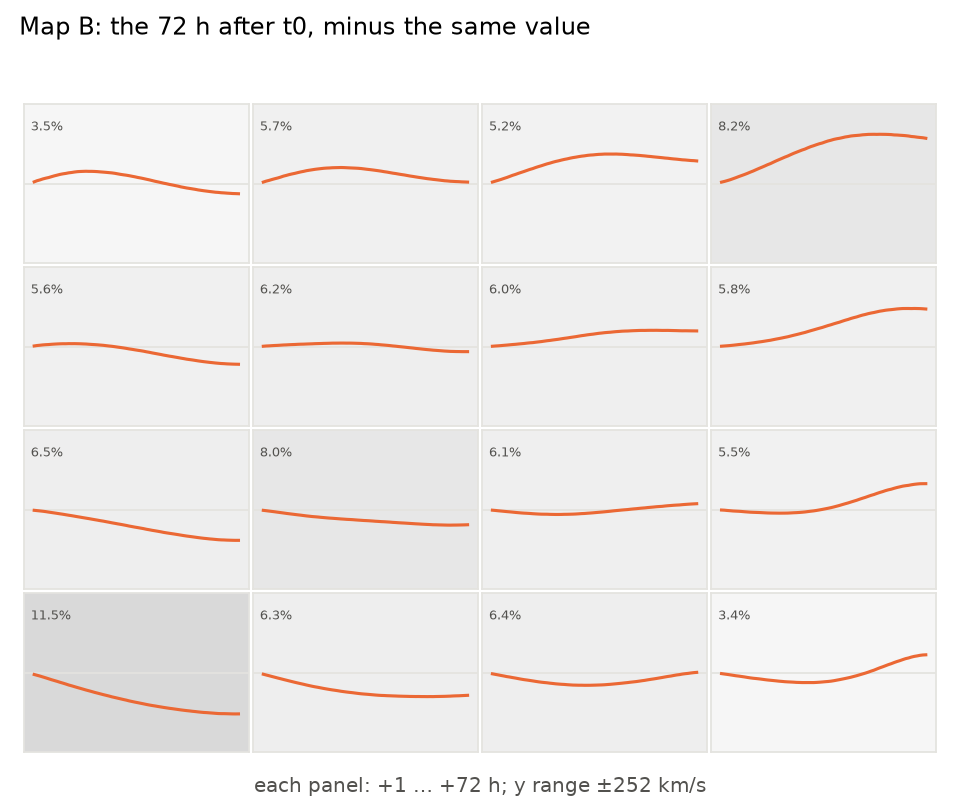
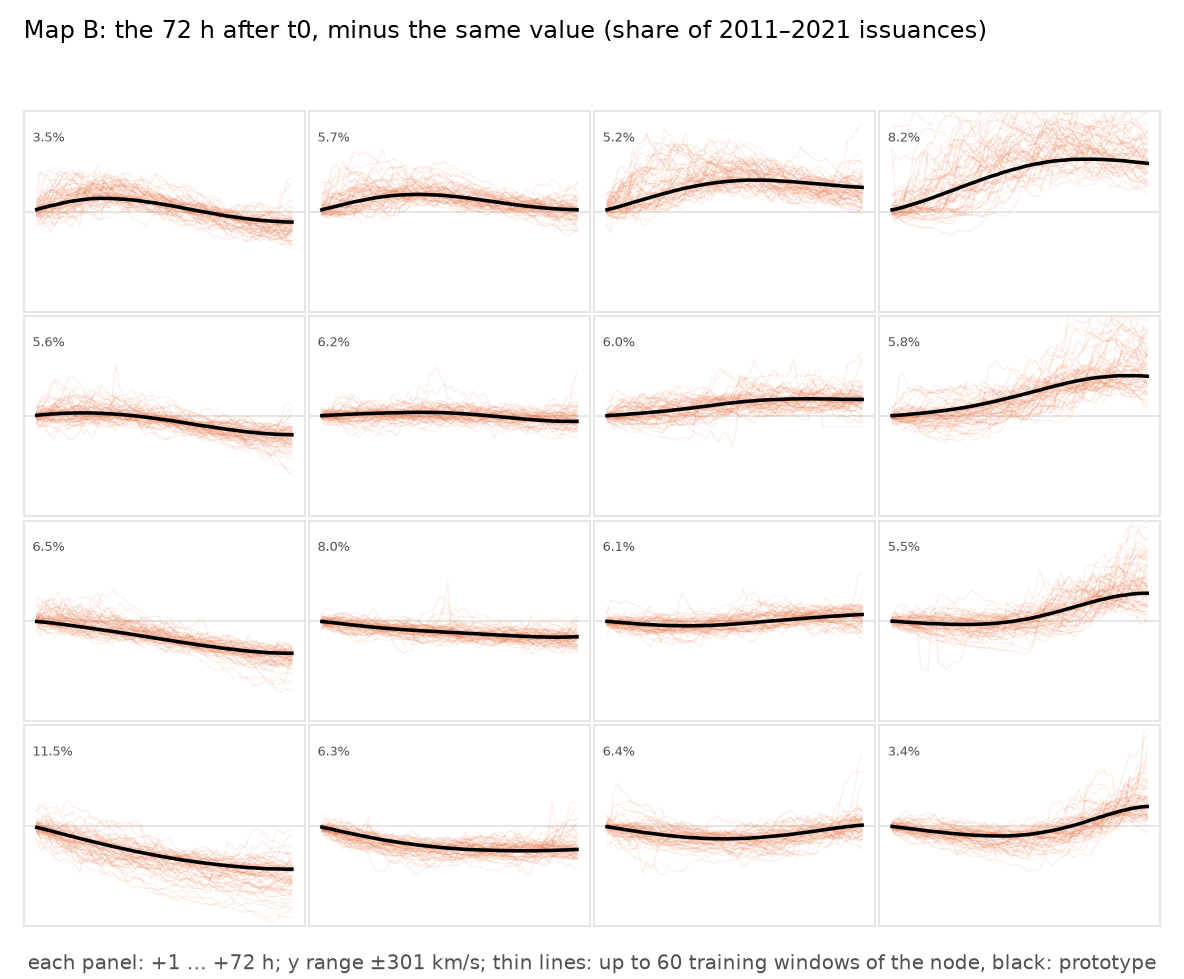
SOM maps: draw each node's training windows behind its prototype

diff --git a/scripts/plot_som.py b/scripts/plot_som.py
@@ -1,8 +1,9 @@
 #!/usr/bin/env python3
 """Figures of the two linked SOMs (benchlab_forecasting.som), in English.
 
-  som_past_map      prototypes of map A: the 72 h before the cut-off, relative to the last value;
-  som_future_map    prototypes of map B: the 72 h after t0, relative to the same value;
+  som_past_map      prototypes of map A: the 72 h before the cut-off, relative to the last value,
+                    over the training windows that fall in each node (thin translucent lines);
+  som_future_map    prototypes of map B: the 72 h after t0, relative to the same value, likewise;
   som_link          P(future node | past node) for four past regimes;
   som_case          one test issuance with a large rise: observed, model and SOM post-processing.
 
@@ -23,22 +24,59 @@ import pandas as pd
 MUTED, GRID = "#52514e", "#e4e3df"
 
 
-def grid_plot(prototypes, grid, counts, title, color, ylim, xlabel):
+def training_members(report, maps):
+    """Training windows of both maps and the node each one falls in (recomputed from the data)."""
+    from benchlab_forecasting.hybrid import load_plasma, origins_between
+    from benchlab_forecasting.som import SOM, SOMConfig, future_windows, past_windows, recurrence_windows
+
+    start, end, _ = report["config"]["splits"]["train"]
+    plasma = load_plasma("data/ace_level2/ac_h2_swe_hourly.parquet",
+                         "data/ace_hourly_2011_2026/ace_swepam_hourly.parquet")
+    origins = origins_between(start[:19], end[:19])
+    past, last, ok = past_windows(plasma.speed_km_s, origins)
+    if maps["past"].shape[1] > 72:
+        past = np.hstack([past, recurrence_windows(plasma.speed_km_s, origins, last)])
+    future, ok_future = future_windows(plasma.speed_km_s, origins, last)
+    usable = ok & ok_future
+    nodes = {}
+    for name, data in (("past", past[usable]), ("future", future[usable])):
+        side = int(maps[f"{name}_grid"][:, 0].max()) + 1
+        som = SOM(SOMConfig(side, side))
+        som.prototypes = maps[name]
+        nodes[name] = (data, som.bmu(data))
+    return nodes
+
+
+def grid_plot(prototypes, grid, counts, title, color, ylim, xlabel, members=None, per_node=60, seed=0):
     rows, cols = int(grid[:, 0].max()) + 1, int(grid[:, 1].max()) + 1
-    fig, axes = plt.subplots(rows, cols, figsize=(1.25 * cols + 1, 1.0 * rows + 1), sharex=True, sharey=True)
+    size = 1.6 if members is not None else 1.25
+    fig, axes = plt.subplots(rows, cols, figsize=(size * cols + 1, 0.8 * size * rows + 1), sharex=True, sharey=True)
     axes = np.atleast_2d(axes)
     share = counts / counts.sum()
     width = prototypes.shape[1]
+    rng = np.random.default_rng(seed)
     for node, (r, c) in enumerate(grid.astype(int)):
         ax = axes[r, c]
         ax.axhline(0, color=GRID, lw=0.8)
+        if members is not None:
+            data, assigned = members
+            inside = np.flatnonzero(assigned == node)
+            shown = rng.choice(inside, min(per_node, len(inside)), replace=False) if len(inside) else inside
+            x = np.arange(-71, 1) if width > 72 or color == "#2a78d6" else np.arange(1, 73)
+            for k in shown:
+                ax.plot(x, data[k, :72], color=color, lw=0.5, alpha=0.12)
+                if width > 72:
+                    ax.plot(np.arange(1, width - 71), data[k, 72:], color=MUTED, lw=0.4, alpha=0.08)
         if width > 72:  # map A with recurrence: past 72 h, then the 27-day-earlier speed of the next 72 h
             ax.plot(np.arange(-71, 1), prototypes[node, :72], color=color, lw=1.4)
             ax.plot(np.arange(1, width - 71), prototypes[node, 72:], color=MUTED, lw=1.0, ls="--")
             ax.axvline(0, color=GRID, lw=0.8)
         else:
-            ax.plot(np.arange(width), prototypes[node], color=color, lw=1.4)
-        ax.set_facecolor(plt.cm.Greys(min(share[node] / share.max(), 1) * 0.25))
+            x = np.arange(-71, 1) if color == "#2a78d6" else np.arange(1, 73)
+            ax.plot(x, prototypes[node], color="black" if members is not None else color,
+                    lw=1.6 if members is not None else 1.4)
+        if members is None:
+            ax.set_facecolor(plt.cm.Greys(min(share[node] / share.max(), 1) * 0.25))
         ax.text(0.03, 0.9, f"{100 * share[node]:.1f}%", transform=ax.transAxes, fontsize=6, color=MUTED, va="top")
         ax.set_xticks([])
         ax.set_yticks([])
@@ -55,6 +93,9 @@ def main(argv=None):
     parser = argparse.ArgumentParser(description=__doc__, formatter_class=argparse.RawDescriptionHelpFormatter)
     parser.add_argument("--experiment", type=Path, default=Path("data/experiments/som_2011_2026"))
     parser.add_argument("--output-dir", type=Path)
+    parser.add_argument("--members", action=argparse.BooleanOptionalAction, default=True,
+                        help="Draw the training windows of each node behind its prototype")
+    parser.add_argument("--per-node", type=int, default=60, help="Most windows drawn per node")
     args = parser.parse_args(argv)
     out = args.output_dir or args.experiment / "figures"
     out.mkdir(parents=True, exist_ok=True)
@@ -63,17 +104,25 @@ def main(argv=None):
     report = json.loads((args.experiment / "report.json").read_text())
     past, future, link = maps["past"], maps["future"], maps["link"]
 
-    span = max(np.abs(past).max(), np.abs(future).max())
+    members = training_members(report, maps) if args.members else {"past": None, "future": None}
+    if args.members:
+        span = float(np.percentile(np.abs(np.vstack([members["past"][0][:, :72], members["future"][0]])), 99.5))
+    else:
+        span = max(np.abs(past).max(), np.abs(future).max())
     lim = (-span * 1.05, span * 1.05)
+    note = (f"; thin lines: up to {args.per_node} training windows of the node, black: prototype"
+            if args.members else "")
     figures = {
         "som_past_map": grid_plot(past, maps["past_grid"], counts["past_counts"],
                                   "Map A: solar-wind speed in the 72 h before the cut-off, minus the last value "
                                   "(share of 2011–2021 issuances)", "#2a78d6", lim,
                                   ("each panel: −72 h … cut-off" + ("; dashed: speed 27 days before the next 72 h" if past.shape[1] > 72
-                                   else "") + "; y range ±%.0f km/s" % span)),
+                                   else "") + "; y range ±%.0f km/s" % span + note),
+                                  members["past"], args.per_node),
         "som_future_map": grid_plot(future, maps["future_grid"], counts["future_counts"],
-                                    "Map B: the 72 h after t0, minus the same value", "#eb6834", lim,
-                                    "each panel: +1 … +72 h; y range ±%.0f km/s" % span),
+                                    "Map B: the 72 h after t0, minus the same value (share of 2011–2021 issuances)",
+                                    "#eb6834", lim, "each panel: +1 … +72 h; y range ±%.0f km/s" % span + note,
+                                    members["future"], args.per_node),
     }
 
     # P(j | i) on map B for the four most frequent past regimes.

diff --git a/docs/som.md b/docs/som.md
@@ -50,6 +50,11 @@ em numpy em `src/benchlab_forecasting/som.py`; os testes estão em `tests/test_s
 
 ## Os mapas
 
+Em cada painel, a linha preta é o protótipo do neurônio. As linhas finas e transparentes
+são até 60 janelas de treino (sorteadas) que caem nele, e o percentual é a fração das
+emissões de 2011–2021 no neurônio. Para gerar sem as janelas, use `--no-members` no
+`scripts/plot_som.py`.
+
 ![Mapa A](figures/som_past_map.png)
 
 ![Mapa B](figures/som_future_map.png)
@@ -63,6 +68,12 @@ em numpy em `src/benchlab_forecasting/som.py`; os testes estão em `tests/test_s
 - **Mapa B:** a validação preferiu 4×4. Os cenários são suaves: subir, descer, estável e
   subir tarde. Mapas maiores (6×6, 8×8) têm protótipos mais nítidos, mas pioram o RMSE de
   validação.
+- **O espalhamento conta a história:**
+  - No mapa A, as janelas ficam justas em torno de cada protótipo.
+  - No mapa B, os futuros de um mesmo neurônio se espalham muito mais. No cenário "subir"
+    (8,2% das emissões), as séries vão de quase nada até +300 km/s, com a subida em
+    horários diferentes.
+  - É a mesma conclusão da informação mútua: o passado não fixa a forma do futuro.
 - **Ligação:**
   - depois de uma subida forte (nó 90 de A), 45% da probabilidade vai para "descer" (o
     fim de uma corrente rápida);
